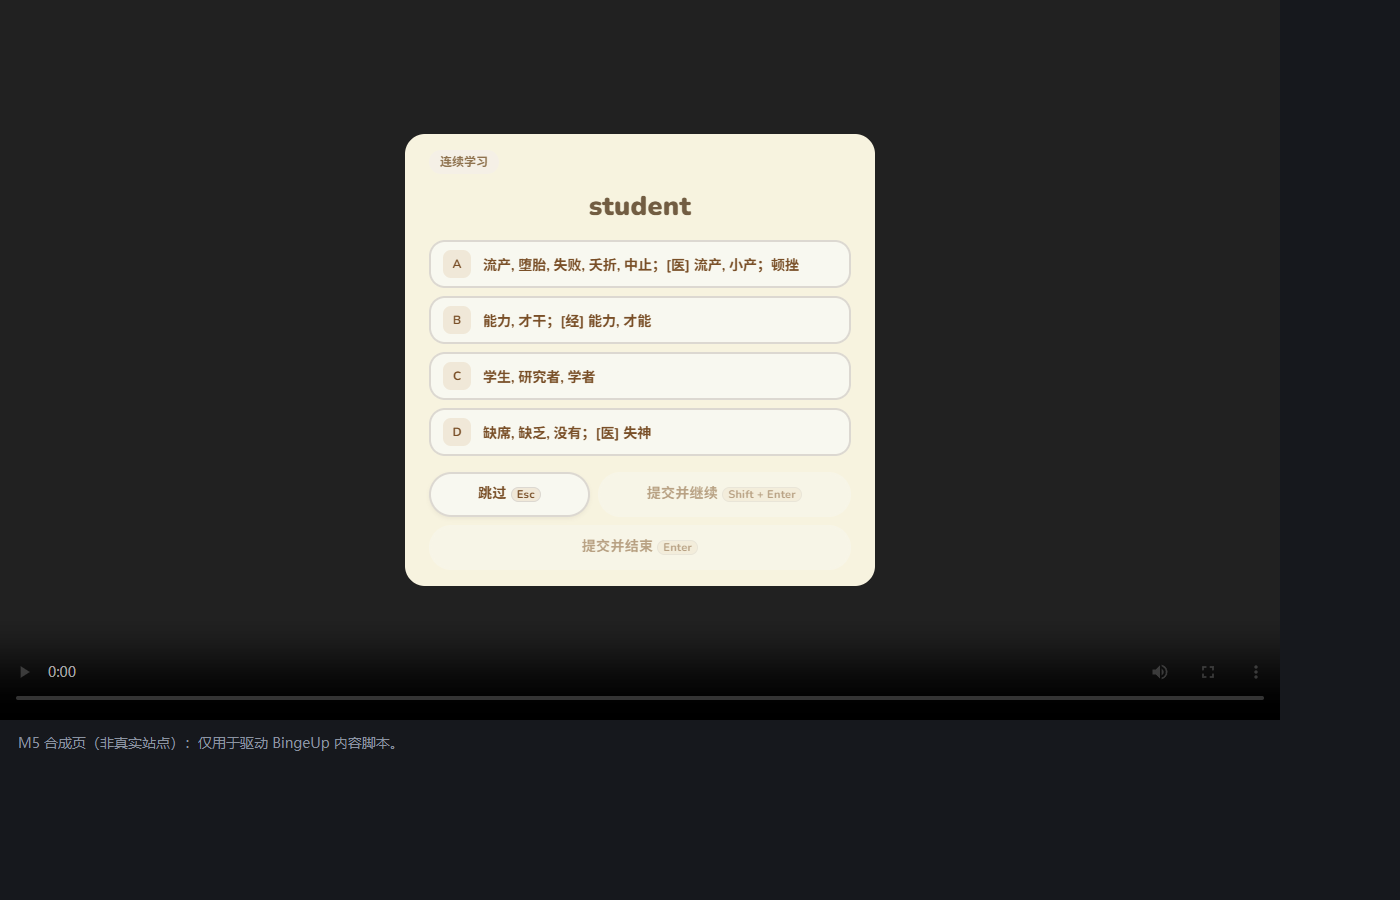
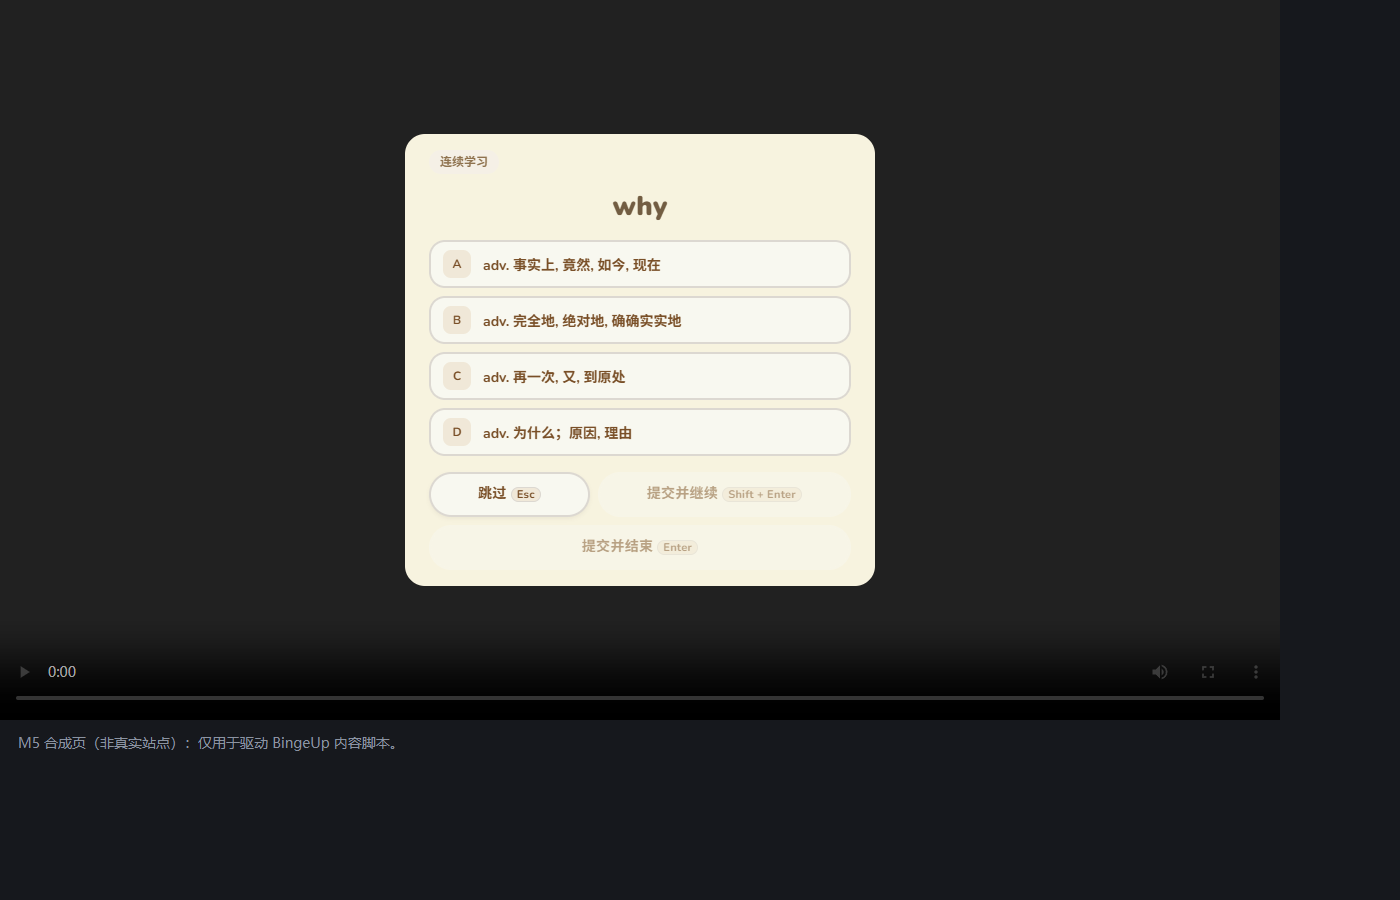
补充 M5 证据：合并 M2 后的复测数据并重采截图

diff --git a/docs/ui-migration-evidence.md b/docs/ui-migration-evidence.md
@@ -607,6 +607,19 @@ npx playwright test
 $env:CAPTURE_M5='1'; npx playwright test e2e/overlay-island-migration.spec.ts
 ```
 
+### 9. 合并集成分支（含 M2）后的复测
+
+本工单推送前已合并集成分支（e69640f，含工单 #39 M2 Popup 完整迁移与共享页面基础模块）。合并后复测（Chrome 与 Edge 数字一致）：
+
+| 指标 | 集成分支（M0+M1+M4+M2） | 合并后（M0+M1+M4+M2+M5） | 差值 |
+| --- | --- | --- | --- |
+| 解包体积 | 11,310,342 B（57 文件） | 11,318,965 B（57 文件） | +8,623 B |
+| 压缩包 zip | 8,451,396 B | 8,453,277 B | +1,881 B |
+| content script | 346,395 B | 355,018 B | +8,623 B |
+| Popup 入口闭包 | 315,708 B | 315,708 B | 0 |
+
+合并后门禁复测：typecheck 通过；npm test 47 文件 / 833 用例通过；lint 通过；Chrome/Edge 构建通过（含三个校验脚本）；npm run test:e2e 10 通过 / 18 跳过 / 0 失败。M5 增量与合并前一致（只影响内容脚本），M2 的 Popup 与共享模块未受本工单影响；M5 截图已用合并后产物重新采集并提交（截图内容随当前抽到的单词变化，仅作证据，不作像素比对基线）。
+
 相关提交（分支 codex/ticket-44-m5-overlay）：
 
 1. 遮罩迁移为 Animal Island 原版视觉并删除 M4 预览路径
